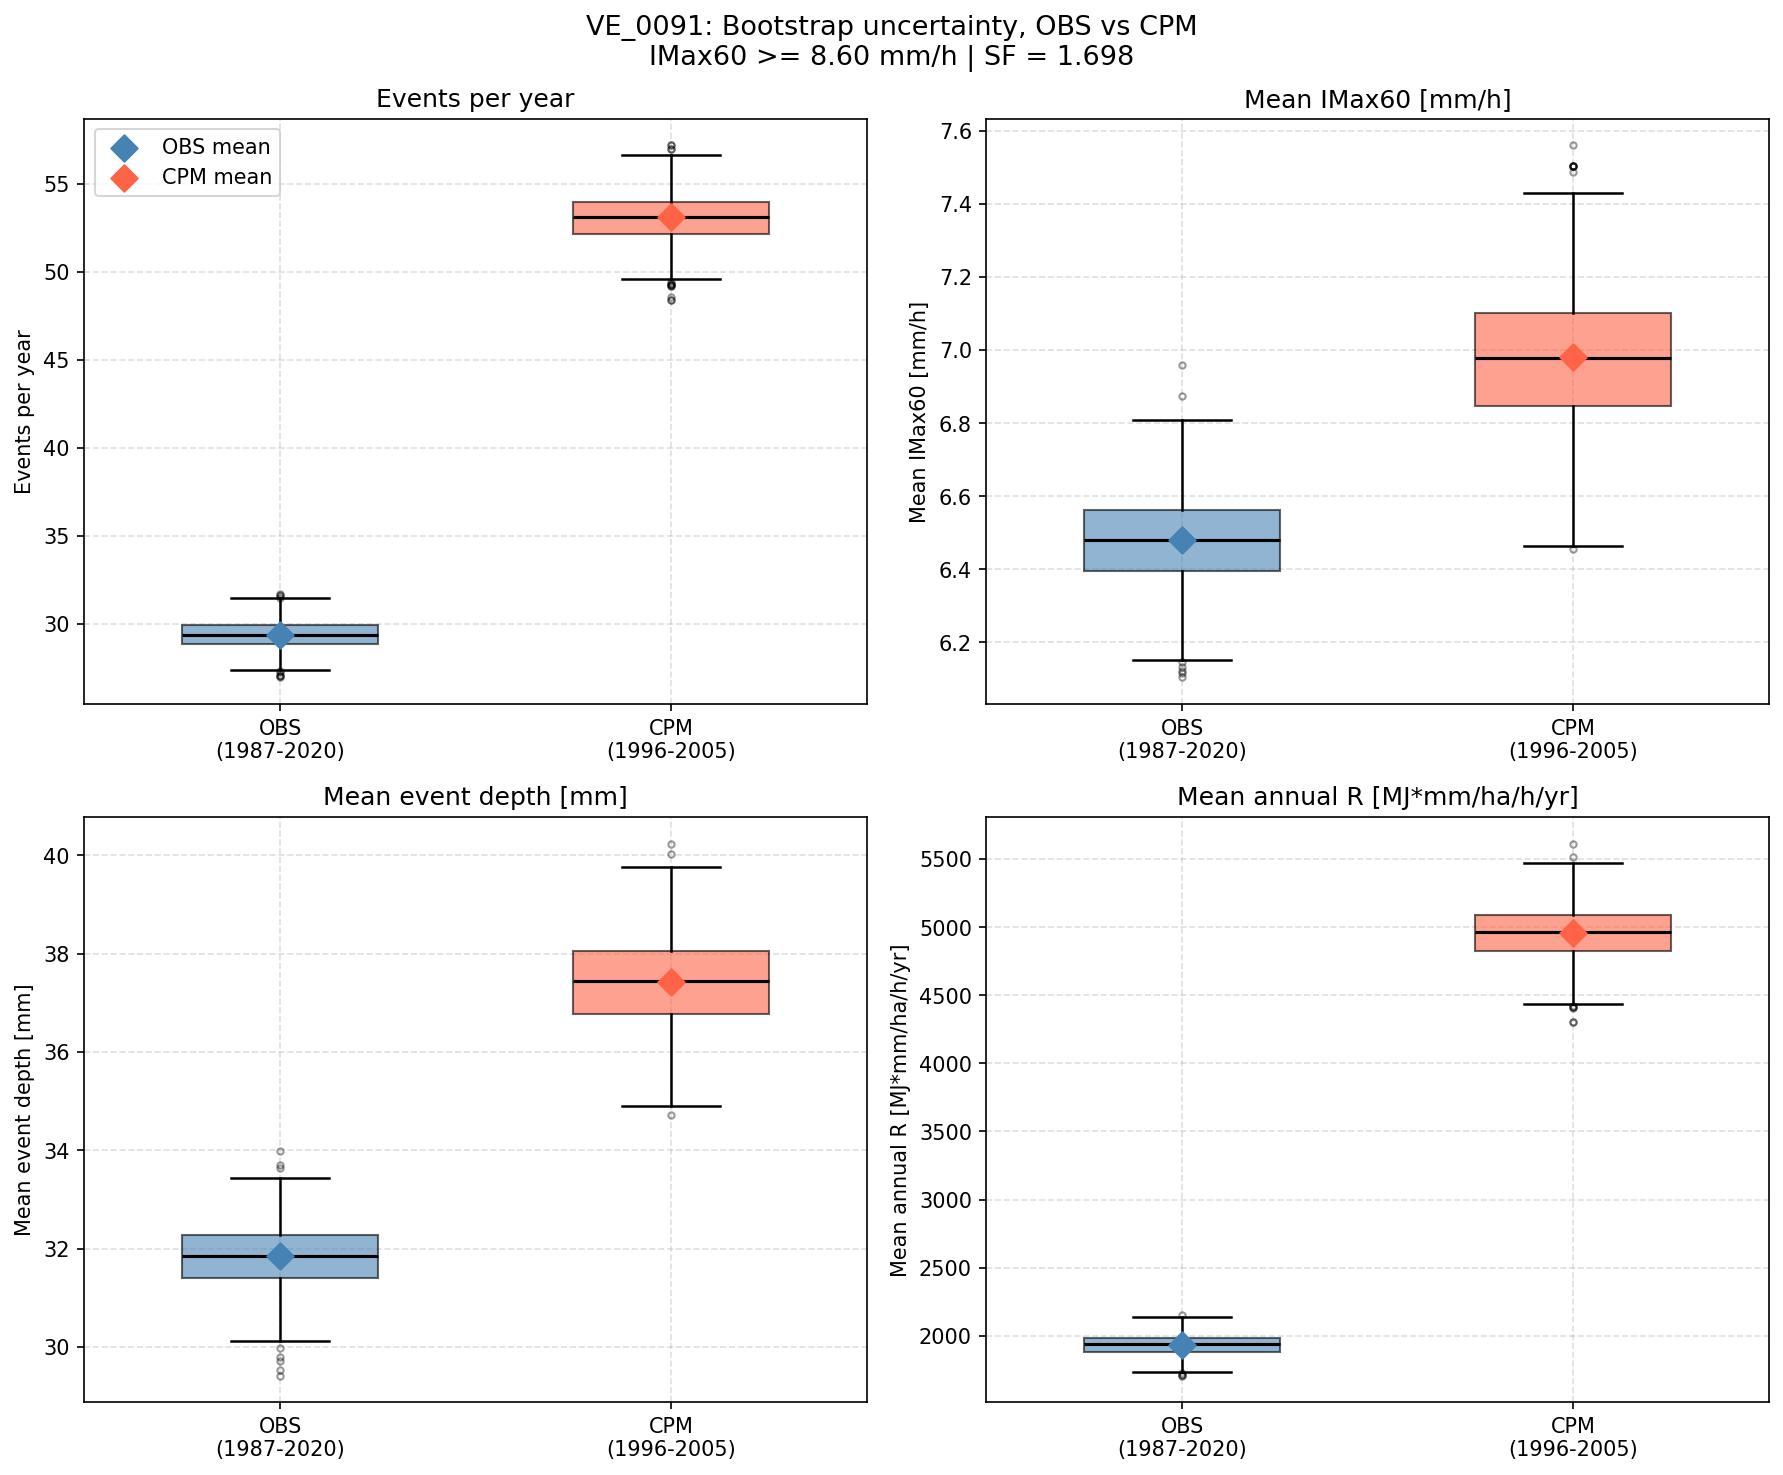
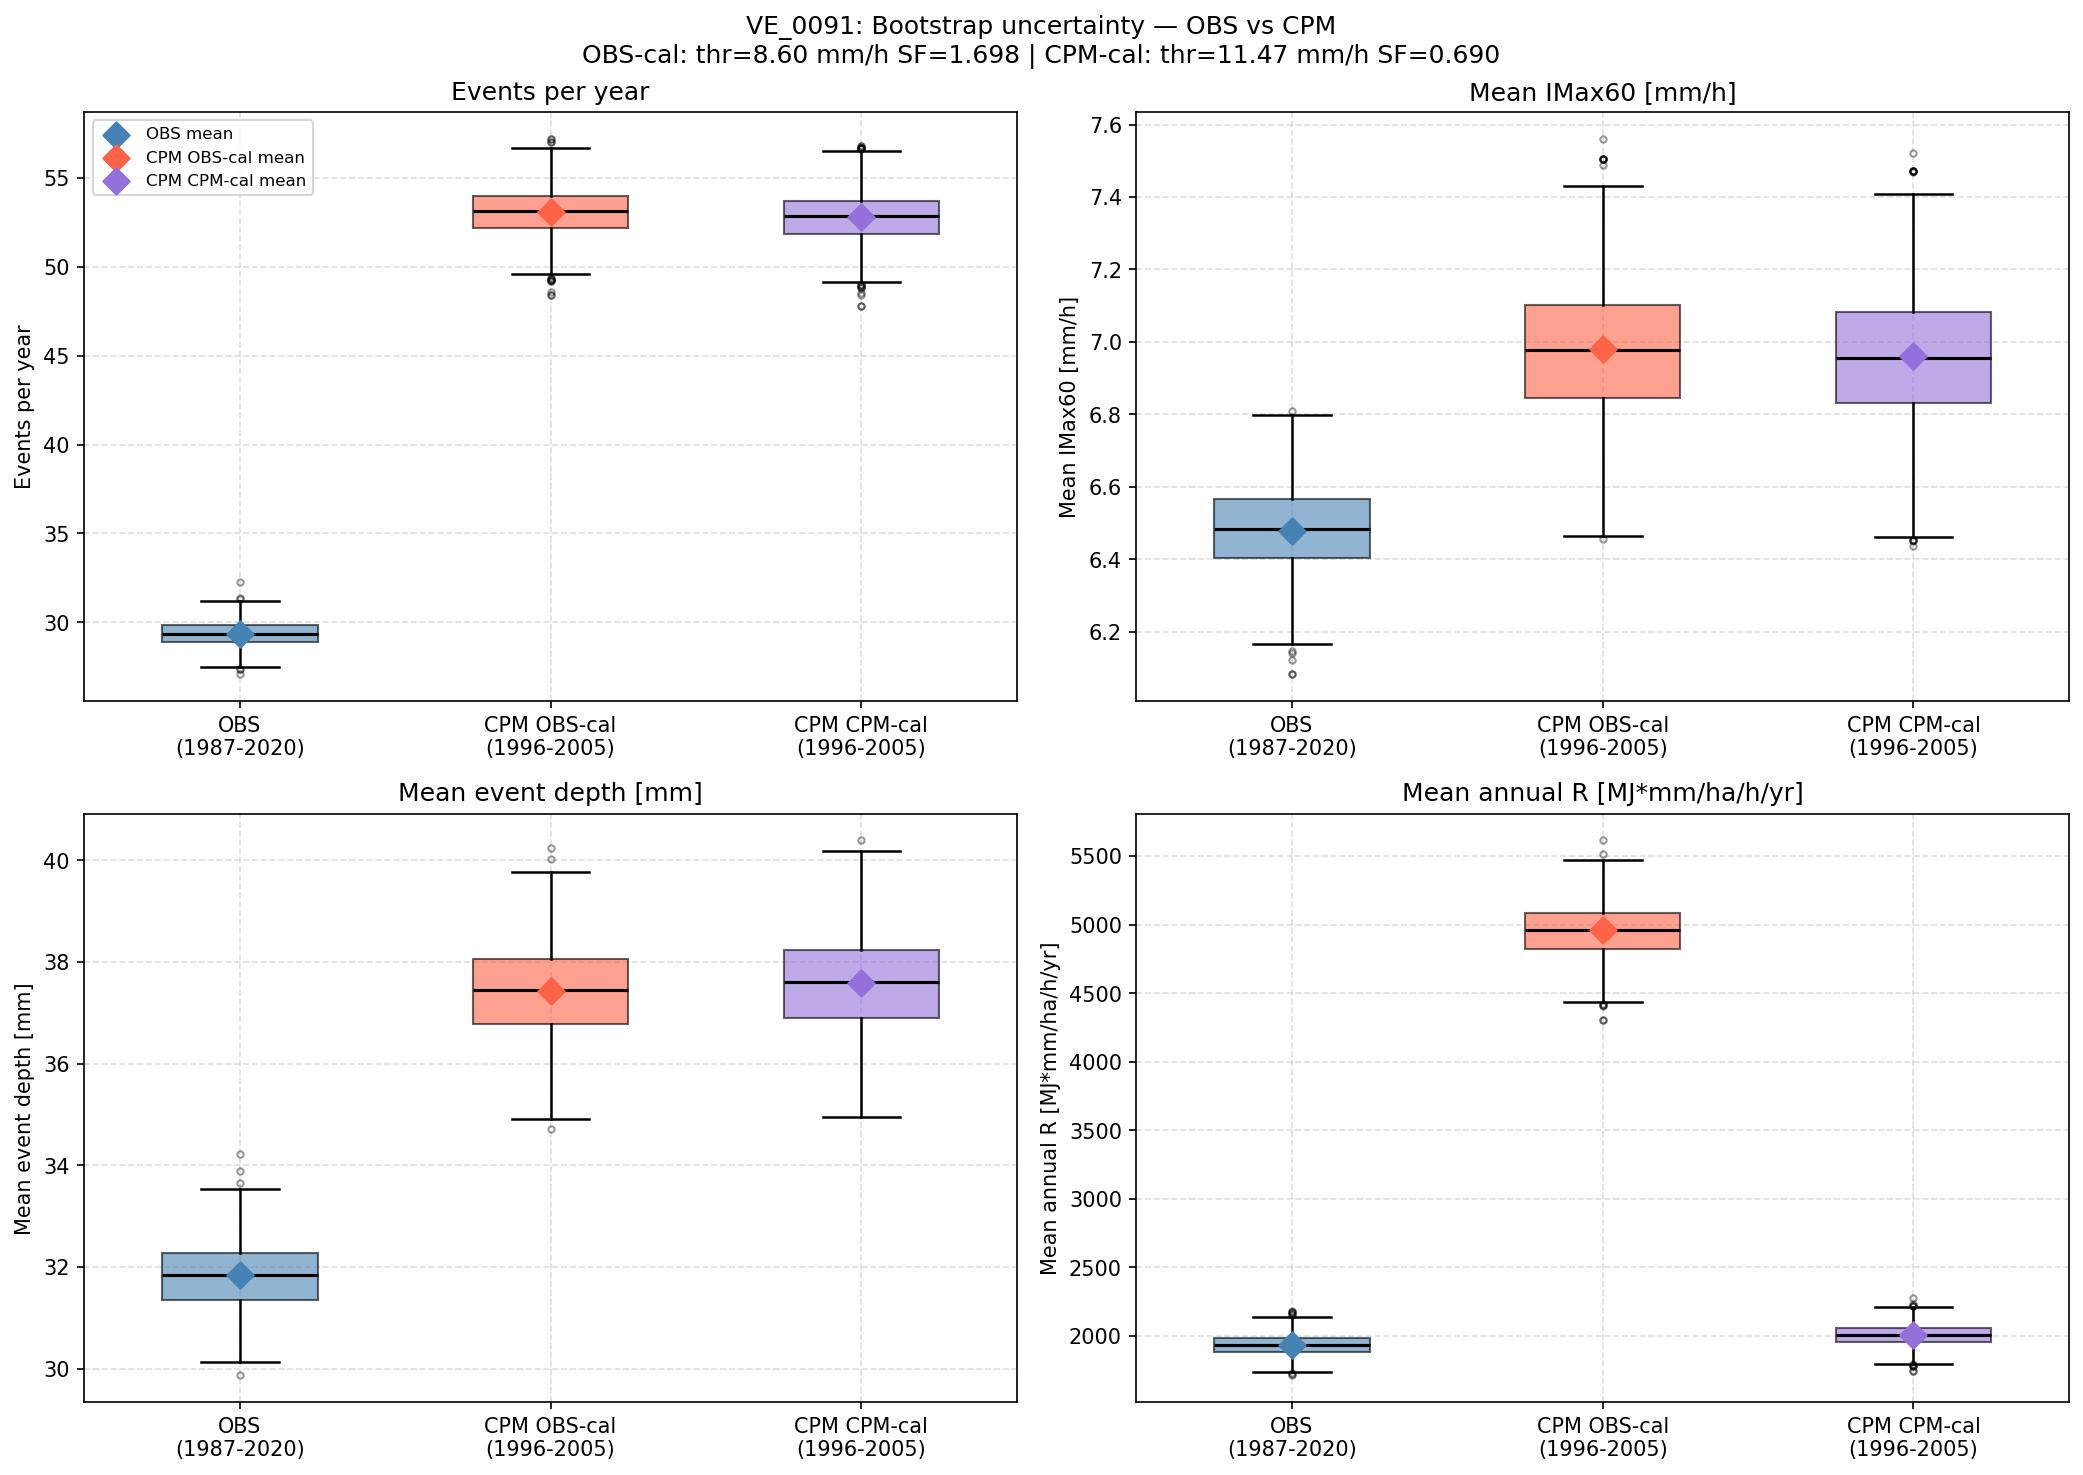
finalization of readme and boots

diff --git a/examples/04_example_bootstrapping.py b/examples/04_example_bootstrapping.py
@@ -329,14 +329,18 @@ print(
 
 scatter_panels = [
     {
-        'title': f'OBS 1h | IMax60 >= {thr_opt:.2f} mm/h',
+        'title': (
+            f'OBS 1h\n'
+            f'IMax60 >= {thr_opt:.2f} mm/h | SF = {sf:.3f}'
+        ),
         'df_all': df_all_obs,
         'thr': thr_opt,
         'stats': stats_obs,
     },
     {
         'title': (
-            f'CPM 1h | OBS-cal\nIMax60 >= {thr_opt:.2f} mm/h'
+            f'CPM 1h — OBS calibration applied\n'
+            f'IMax60 >= {thr_opt:.2f} mm/h | SF = {sf:.3f}'
         ),
         'df_all': df_all_cpm,
         'thr': thr_opt,
@@ -344,7 +348,8 @@ scatter_panels = [
     },
     {
         'title': (
-            f'CPM 1h | CPM-cal\nIMax60 >= {thr_opt_cpm:.2f} mm/h'
+            f'CPM 1h — CPM-own calibration\n'
+            f'IMax60 >= {thr_opt_cpm:.2f} mm/h | SF = {sf_cpm:.3f}'
         ),
         'df_all': df_all_cpm,
         'thr': thr_opt_cpm,
@@ -406,8 +411,9 @@ for ax, p in zip(axes_sc, scatter_panels):
         f'R = {p["stats"]["erosivity"]["mean"]:.0f}'
         f' MJ*mm/ha/h/yr\n'
         f'{p["stats"]["n_events"]["mean"]:.1f} ev/yr',
-        transform=ax.transAxes, ha='right', va='top', fontsize=8,
-        bbox=dict(facecolor='white', alpha=0.75, pad=2, linewidth=0),
+        transform=ax.transAxes, ha='right', va='top', fontsize=12,
+        fontweight='bold',
+        bbox=dict(facecolor='white', alpha=0.85, pad=4, linewidth=0),
     )
 
 plt.suptitle(

diff --git a/README.md b/README.md
@@ -10,7 +10,7 @@ Rainfall erosivity quantifies the capacity of rain to detach and transport soil,
 
 2. **Event filtering** -- events shorter than a minimum duration are discarded (`remove_short`).
 
-3. **Per-event metrics** -- for each event and each accumulation window (e.g. 30 min for IMax30), a true sliding-window convolution computes peak accumulated depth and converts it to intensity. Kinetic energy and erosivity (EI30) are computed over the full event using the DIN 19708 / Rogler & Schwertmann (1981) formula.
+3. **Per-event metrics** -- for each event and each accumulation window (e.g. 30 min for IMax30), a true sliding-window convolution computes peak accumulated depth and converts it to intensity. Kinetic energy (E_kin) is summed over the event by integrating a rainfall intensity-to-kinetic-energy relationship (here DIN 19708 / Rogler & Schwertmann 1981): higher intensity drops hit harder and carry more energy per unit depth. The erosivity index EI30 is then the product of E_kin and the peak 30-min intensity IMax30. IMax30 acts as a proxy for the storm's hydraulic aggressiveness: two events with the same total depth but different peak intensities have very different erosive power.
 
 4. **Erosivity event selection** -- `get_only_erosivity_events` implements the Wischmeier (1959, 1979) / Wischmeier & Smith (1978) / DIN 19708:2017-08 dual criterion: IMax15 >= 25.4 mm/h (standard) **or** total depth >= 12.7 mm. An alternative formulation using IMax30 >= 12.7 mm/h is also supported. The wider accumulation window makes it looser in practice.
 
@@ -61,6 +61,18 @@ The dual criterion applied by `get_only_erosivity_events` is `event_depth` >= 12
 - McGregor, K. C., Binger, R. L. & Bowie, A. J. (1995). Erosivity index values for northern Mississippi. *Trans. ASAE*, 38(4), 1039-1047. *(exponential form, RUSLE2)*
 - van Dijk, A. I. J. M., Bruijnzeel, L. A. & Rosewell, C. J. (2002). Rainfall intensity–kinetic energy relationships: a critical literature appraisal. *J. Hydrology*, 261(1), 1-23. https://doi.org/10.1016/S0022-1694(02)00020-3 *(review; basis for 76.2 mm/h intensity cap)*
 
+### Recommended readings
+
+The physics connecting raindrop size distributions to rainfall kinetic energy:
+
+- **van Dijk, A. I. J. M., Bruijnzeel, L. A. & Rosewell, C. J. (2002).** Rainfall intensity–kinetic energy relationships: a critical literature appraisal. *J. Hydrology*, 261(1), 1–23. https://doi.org/10.1016/S0022-1694(02)00020-3
+
+  A comprehensive review of R–E_k equations across climates. Shows that kinetic energy per unit depth (e_k) rises with intensity but levels off above roughly 76 mm/h, where drop breakup prevents further growth in median drop size. The widely-used general form is `e_k = 28.3[1 − 0.52 exp(−0.042R)]` (J m⁻² mm⁻¹). pyErosivity uses this cap when applying the Rogler & Schwertmann (1981) / DIN 19708 formula.
+
+- **Uijlenhoet, R. & Stricker, J. N. M. (1999).** A consistent rainfall parameterization based on the exponential raindrop size distribution. *J. Hydrology*, 218, 101–127. https://doi.org/10.1016/S0022-1694(99)00032-3
+
+  Derives a unified set of power-law relationships between rainfall rate, mean drop diameter, fall velocity and kinetic energy flux directly from the exponential raindrop size distribution (Marshall & Palmer 1948 form). The key physical insight: larger drops fall faster and kinetic energy per drop scales as the fifth or sixth power of diameter, so even a modest increase in drop size at higher intensities translates into a large gain in erosive power — until drop breakup sets an upper limit.
+
 ## Installation
 
 ### 1. Create the conda environment
@@ -85,8 +97,8 @@ Example scripts are in the `examples/` folder and must be run from the repo root
 ```bash
 python examples/01_example_RISTvsPyErosivity_only_Imax30.py
 python examples/02_example_depth_vs_imax.py
-python examples/test_bootstrapping.py
-python examples/test_bootstrapping_CPM.py
+python examples/03_example_calibration.py
+python examples/04_example_bootstrapping.py
 ```
 
 ---
@@ -284,3 +296,55 @@ Key observations:
 - SF-R and SF-EI give similar but not identical correction factors. SF-R averages over years while SF-EI averages over matched events, so the two are sensitive to different aspects of the year-to-year variability.
 - For the calibrated threshold the SF is smaller than for the naive run because threshold calibration already removes part of the selection bias. The remaining bias is purely the intensity underestimation inside each event.
 - After correction, both the naive and calibrated runs converge to the same mean annual R, confirming that the SF approach successfully decouples the selection bias from the intensity bias.
+
+---
+
+### Study 4: Bootstrap uncertainty and OBS vs CPM comparison
+
+**Script:** `examples/04_example_bootstrapping.py`
+
+Studies 1 to 3 established how to derive a bias-corrected hourly erosivity estimate from gauge observations. Study 4 addresses two further questions. First, how uncertain is the mean annual R-factor given a finite record length? Second, how does a convection-permitting climate model (CPM) compare to the observed erosivity when the same bias-correction pipeline is applied?
+
+#### Datasets
+
+**OBS:** Station VE_0091, 1-hour gauge observations, 1990–2020 (31 years). The same station described in Study 1 (near Kreuzbergpass, Italy, 46.652° N, 12.424° E, ~1600 m a.s.l.).
+
+**CPM:** ETH convection-permitting model, historical run, 1996–2005 (10 years). See Dallan et al. (2023, 2024) for details on the simulation and its known biases at Alpine stations.
+
+#### Calibration transfer
+
+The intensity threshold and scaling factor derived in Study 3 from OBS 5-min vs OBS 1h are transferred directly to the CPM. This is the simplest assumption: the temporal resolution bias is a property of the accumulation window, not of the dataset. A second calibration is then performed with the CPM data itself as the target, finding a CPM-own threshold and SF against the 5-min OBS reference over the overlapping 1996–2005 period. This gives three configurations for comparison:
+
+| Configuration | Threshold | SF | Description |
+|---|---|---|---|
+| OBS | calibrated from OBS | from OBS | Observed erosivity, bias-corrected |
+| CPM OBS-cal | same as OBS | same as OBS | CPM with OBS calibration transferred |
+| CPM CPM-cal | calibrated from CPM | from CPM vs 5-min ref | CPM with its own threshold and SF |
+
+#### Wet bias diagnostic
+
+Before any event extraction, mean annual total precipitation is computed for each dataset. A large wet bias in the CPM (found to be approximately +95% at this station relative to OBS) indicates that the model generates roughly twice the observed annual rainfall. This is consistent with the known positive precipitation bias of some CPM configurations at Alpine sites (Dallan et al. 2024, who report ~55% bias in 24-hour mean annual maxima at this station). The wet bias propagates directly into the erosivity pipeline: more rainfall means more events exceeding the 12.7 mm depth criterion, leading to a higher erosive event count and R-factor even after threshold calibration.
+
+#### Classification scatter
+
+![Classification scatter OBS vs CPM](fig/04_fig0.jpg)
+
+Three panels show the event depth vs IMax60 classification for each configuration. The OBS panel and the CPM OBS-cal panel use the same threshold line; the CPM CPM-cal panel uses the CPM-own threshold. Each panel annotates the resulting mean annual R-factor and event count directly. The comparison immediately reveals whether the elevated CPM event count comes from the depth-only zone (depth criterion triggered by the wet bias) or from the intensity zone.
+
+#### Bootstrap uncertainty
+
+Bootstrap resampling draws calendar years with replacement (1000 iterations). For OBS the sample pool is 31 years; for CPM it is 10 years. The CPM bootstrap uses a pre-defined year-draw sequence (`randy.txt`) shared across ensemble members so that results from different model runs are directly comparable (Dallan et al. 2023).
+
+![Bootstrap distributions OBS vs CPM](fig/04_fig1.jpg)
+
+Four statistics are shown as side-by-side boxplots: events per year, mean IMax60, mean event depth, and mean annual R-factor. The diamond marker inside each box is the population mean for the full record. The width of each box reflects sampling uncertainty given the available record length. The shorter CPM record (10 years) produces wider boxes than the 31-year OBS record.
+
+Key observations:
+- Sampling uncertainty for the 10-year CPM record is substantially larger than for the 31-year OBS record. A single anomalous year has much more influence on the 10-year mean.
+- Transferring OBS calibration parameters to CPM does not remove the wet-bias-driven event inflation. The CPM CPM-cal configuration, which finds its own threshold and SF, converges to a corrected R-factor close to the 5-min OBS reference over the 1996–2005 window, but the event count and depth distributions remain affected by the model's precipitation climatology.
+- The comparison highlights that threshold calibration and SF correction address temporal resolution bias but do not replace a full bias correction of the underlying precipitation field.
+
+#### References
+
+- Dallan, E., Marra, F., Fosser, G., Marani, M., Formetta, G., Schär, C., and Borga, M. (2023). How well does a convection-permitting regional climate model represent the reverse orographic effect of extreme hourly precipitation? *Hydrol. Earth Syst. Sci.*, 27, 1133–1149. https://doi.org/10.5194/hess-27-1133-2023
+- Dallan, E., Borga, M., Fosser, G., Canale, A., Roghani, B., Marani, M., & Marra, F. (2024). A method to assess and explain changes in sub-daily precipitation return levels from convection-permitting simulations. *Water Resources Research*, 60, e2023WR035969. https://doi.org/10.1029/2023WR035969